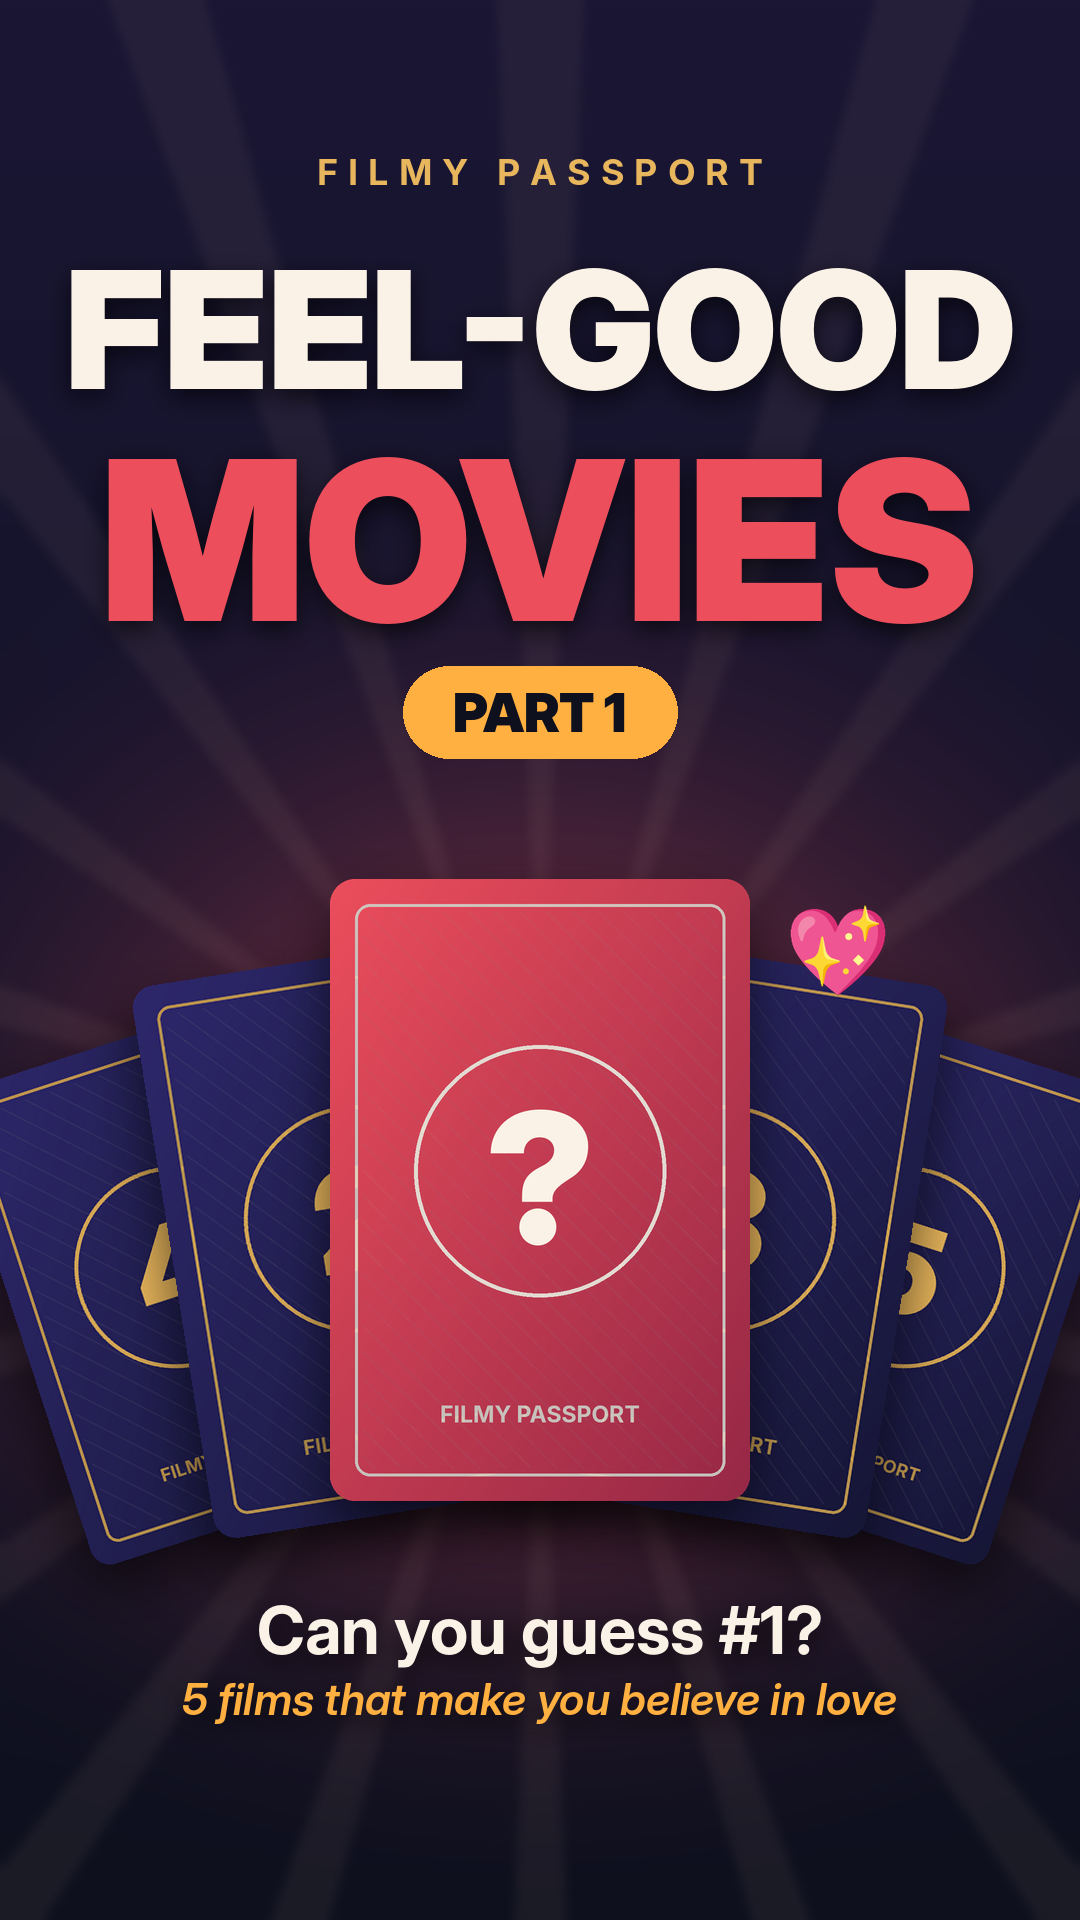
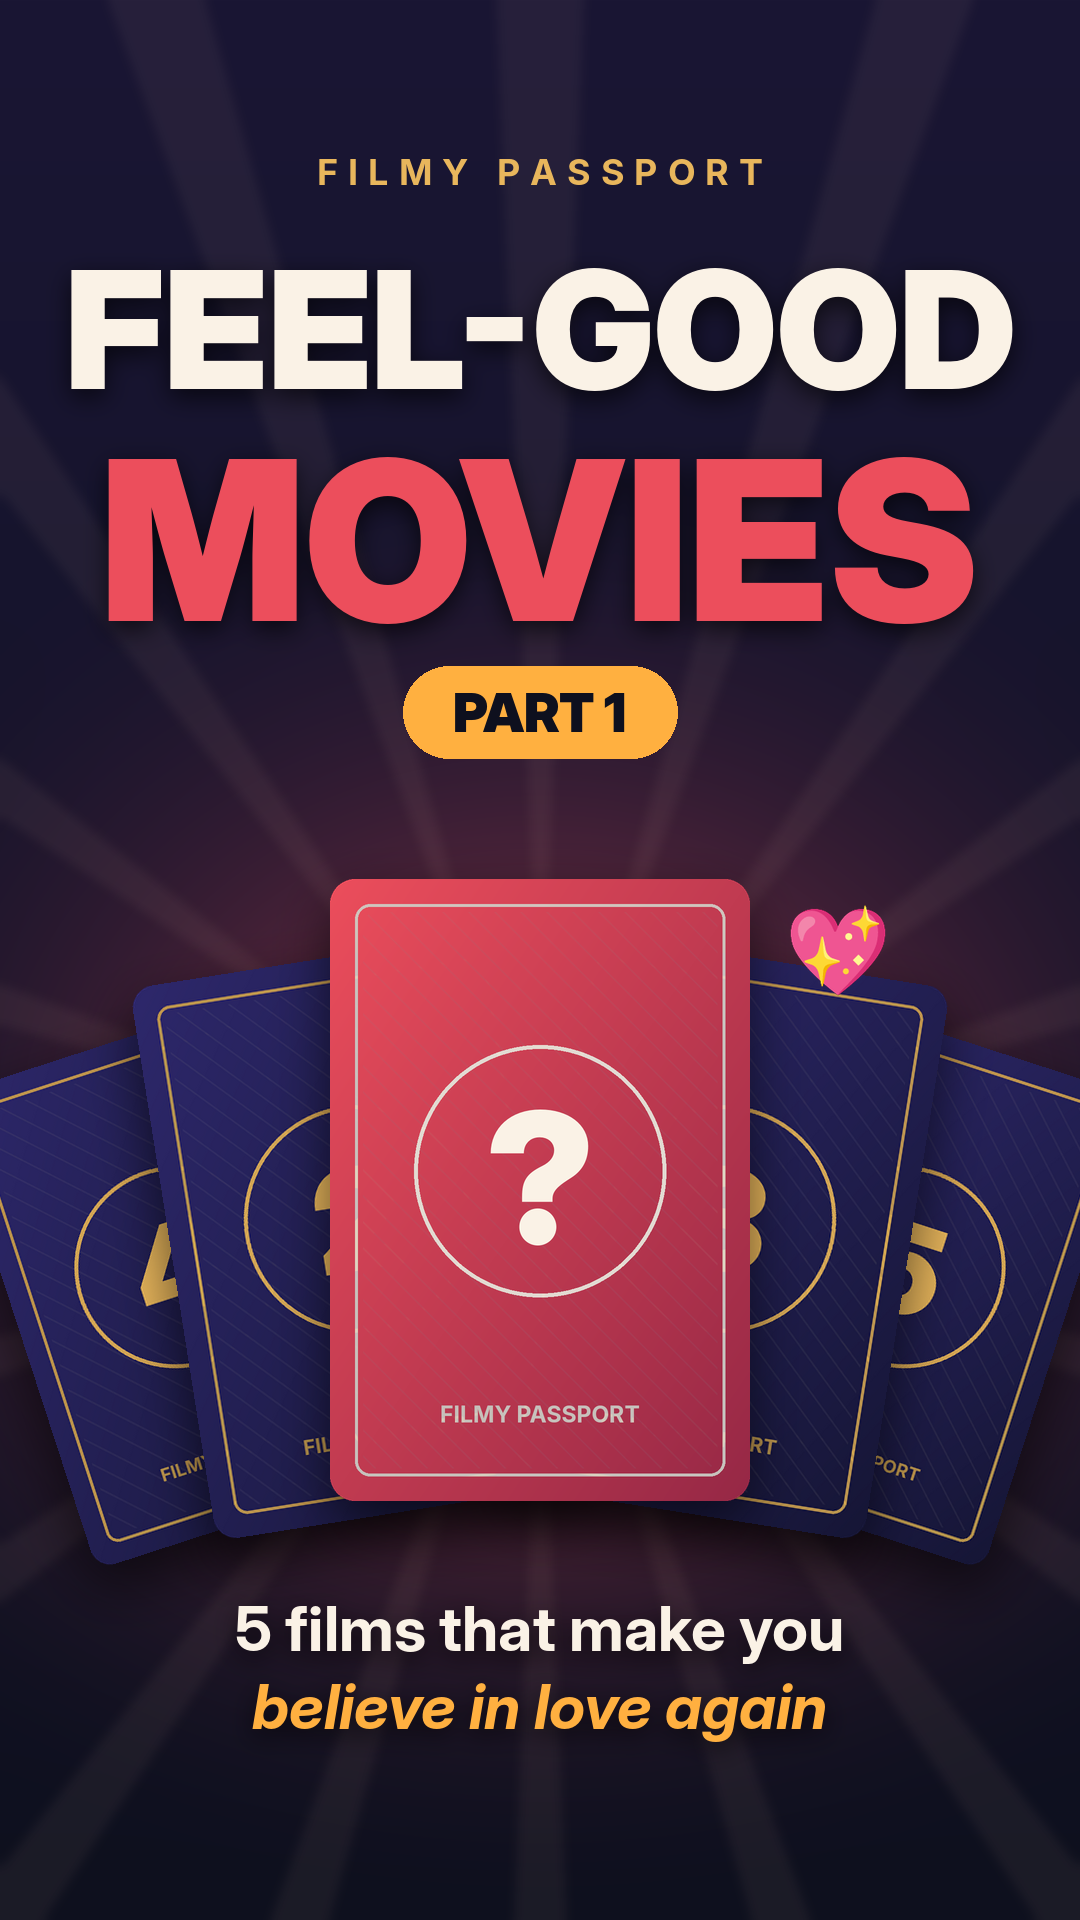
Thumbnails: drop the 'Can you guess #1?' line
Claude-Session: https://claude.ai/code/session_01HaymWABFDdtcW3zyMJwaaR

Changed region(s): [[0.1528, 0.8125, 0.825, 0.9062]]

diff --git a/filmy-passport/scripts/make_thumbnail.py b/filmy-passport/scripts/make_thumbnail.py
@@ -161,8 +161,8 @@ def vertical():
     fan(im, (W / 2, 1190), 420, 622, 180, 9, 46)
     heart = emoji("💖", 96)
     im.alpha_composite(heart, (int(W / 2 + 250), 905))
-    text_shadow(im, (W / 2, 1590), "Can you guess #1?", font("InterDisplay-Bold", 66), CREAM)
-    text_shadow(im, (W / 2, 1672), "5 films that make you believe in love", font("InterDisplay-SemiBoldItalic", 44), SAFFRON)
+    text_shadow(im, (W / 2, 1590), "5 films that make you", font("InterDisplay-Bold", 62), CREAM)
+    text_shadow(im, (W / 2, 1668), "believe in love again", font("InterDisplay-BoldItalic", 62), SAFFRON)
     out = os.path.join(HERE, "thumbnail_feel_good_part1_vertical.png")
     im.convert("RGB").save(out)
     return out
@@ -181,8 +181,8 @@ def landscape():
     w = d.textlength("PART 1", font=f) + 64
     d.rounded_rectangle((x0 + 4, 448, x0 + 4 + w, 512), 32, fill=SAFFRON)
     d.text((x0 + 4 + w / 2, 480), "PART 1", font=f, fill=INK, anchor="mm")
-    text_shadow(im, (x0 + 4, 548), "Can you guess #1?", font("InterDisplay-Bold", 44), CREAM, anchor="la", blur=8)
-    text_shadow(im, (x0 + 4, 598), "5 films that make you believe in love", font("InterDisplay-SemiBoldItalic", 30), SAFFRON, anchor="la", blur=8)
+    text_shadow(im, (x0 + 4, 548), "5 films that make you", font("InterDisplay-Bold", 40), CREAM, anchor="la", blur=8)
+    text_shadow(im, (x0 + 4, 598), "believe in love again", font("InterDisplay-BoldItalic", 40), SAFFRON, anchor="la", blur=8)
     out = os.path.join(HERE, "thumbnail_feel_good_part1_16x9.png")
     im.convert("RGB").save(out)
     return out
